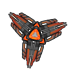
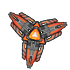
fix: red enemy brightness and sound

Changed region(s): [[0.1143, 0.1714, 0.9714, 1.0]]

diff --git a/spaceinvaders/src/screen-logic/screens/PlayScreen.cs b/spaceinvaders/src/screen-logic/screens/PlayScreen.cs
@@ -27,6 +27,7 @@ public class PlayScreen(
     private int _numberOfHordes = 0;
     private Explosion explosion = null;
     private AlienRound alienRound = new(contentManager, spriteBatch, graphics);
+    private int gameTimeSecond = 0;
 
     public override void LoadContent()
     {
@@ -90,7 +91,7 @@ public class PlayScreen(
         Console.WriteLine(_initialTime);
         Console.WriteLine(gameTime.TotalGameTime.Seconds.ToString());
         int differenceToSpawnRedShip = actualSecond - _initialTime;
-        const int seconds = 10;
+        const int seconds = 59;
         if (differenceToSpawnRedShip == seconds)
         {
             _redEnemy = new RedEnemy(game, contentManager, spriteBatch, graphics);

diff --git a/spaceinvaders/src/model/aliens/ships/RedEnemy.cs b/spaceinvaders/src/model/aliens/ships/RedEnemy.cs
@@ -37,7 +37,7 @@ public class RedEnemy : IEnemyEntity
         _spriteBatch = spriteBatch;
         _texture = texture;
         SoundEffects.LoadEffect(game,ESoundsEffects.RedShip);
-        SoundEffects.PlaySoundEffect(0.9f);
+        SoundEffects.PlaySoundEffect(0.7f);
     }
 
     public void OnCollision(CollisionEventArgs collisionInfo)
